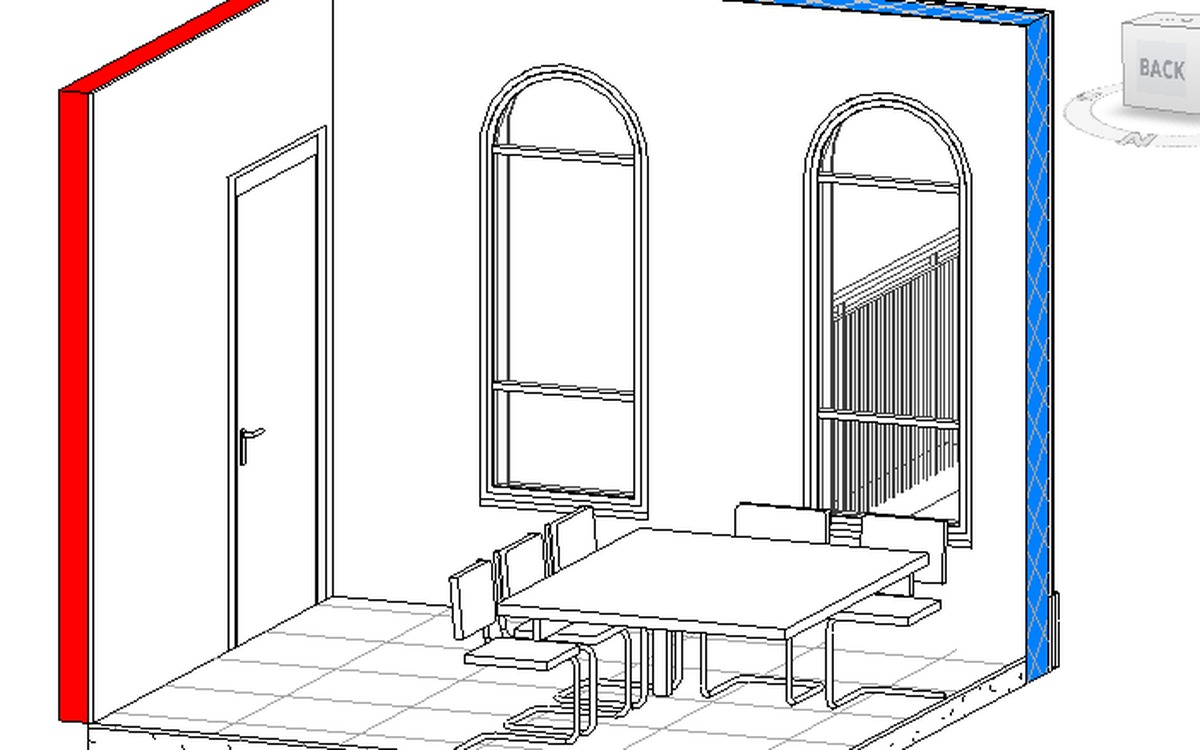
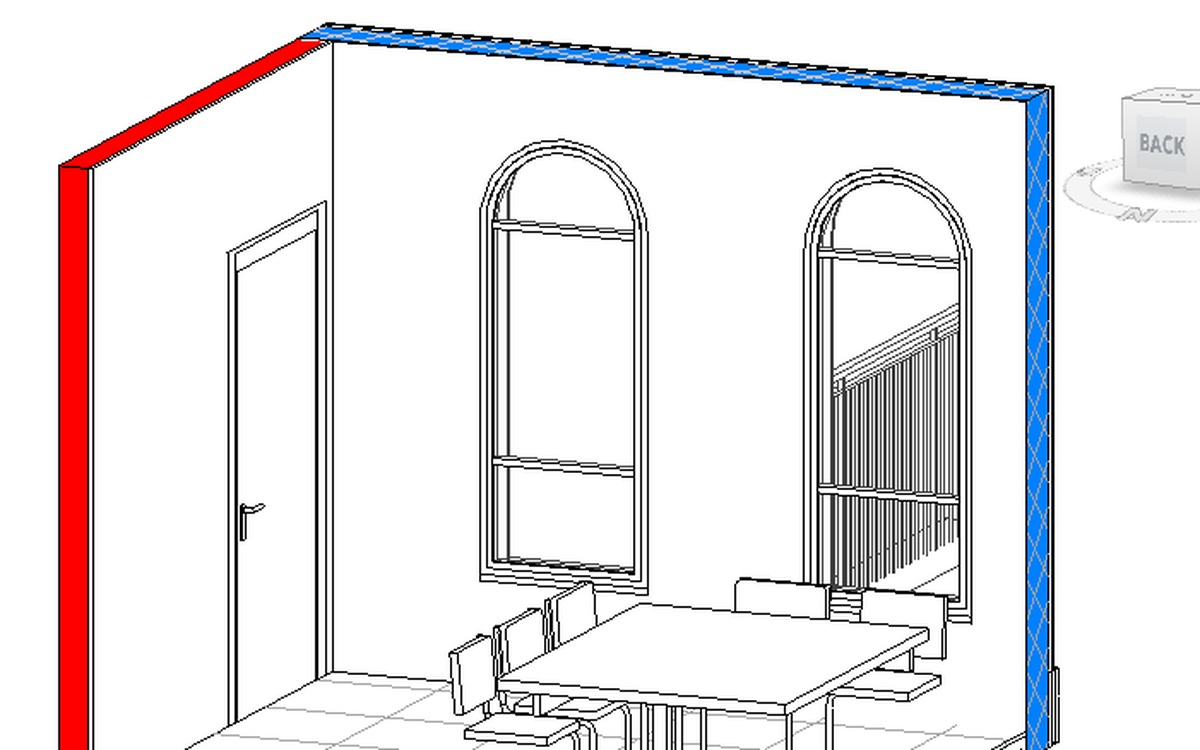
DM: crop higher, bubble to upper-left

diff --git a/all-mockup.html b/all-mockup.html
@@ -9,7 +9,7 @@
 <link rel="preconnect" href="https://fonts.gstatic.com" crossorigin>
 <link href="https://fonts.googleapis.com/css2?family=Rubik:wght@500;600;700;800&family=Heebo:wght@400;500;600;700;800&display=swap" rel="stylesheet">
 <link href="bimsuite-mockup.css?v=37" rel="stylesheet">
-<link href="suite-pipe.css?v=3" rel="stylesheet">
+<link href="suite-pipe.css?v=4" rel="stylesheet">
 <style>
       @keyframes badge-spin {
         from { transform: rotate(0deg); }
@@ -491,7 +491,7 @@ body.oyl-over header[role="banner"] .oymer-submenu a{color:#334155!important}
 @media (max-width:560px){.alllab .oyl-grid{grid-template-columns:1fr}}
 
 </style>
-<link href="oymer-pairs.css?v=8" rel="stylesheet">
+<link href="oymer-pairs.css?v=9" rel="stylesheet">
 </head>
 <body>
 <div class="min-h-screen" dir="rtl">
@@ -995,7 +995,7 @@ body.oyl-over header[role="banner"] .oymer-submenu a{color:#334155!important}
         <article class="oyl-panel">
           <div class="oyl-media">
             <span class="oyl-id oyl-mono">VIEW_02</span>
-            <video src="media/lab/kitchen-lab.mp4?v=3" poster="media/lab/kitchen-lab-poster.jpg" autoplay muted loop playsinline></video>
+            <video src="media/lab/kitchen-lab.mp4?v=4" poster="media/lab/kitchen-lab-poster.jpg" autoplay muted loop playsinline></video>
           </div>
           <div class="oyl-body">
             <span class="oyl-kick oyl-mono">IN THE VIEWER</span>
@@ -1146,7 +1146,7 @@ body.oyl-over header[role="banner"] .oymer-submenu a{color:#334155!important}
         <article class="oyl-panel">
           <div class="oyl-media">
             <span class="oyl-id oyl-mono">LAB_01</span>
-            <video src="media/lab/kitchen-lab.mp4?v=3" poster="media/lab/kitchen-lab-poster.jpg" autoplay muted loop playsinline></video>
+            <video src="media/lab/kitchen-lab.mp4?v=4" poster="media/lab/kitchen-lab-poster.jpg" autoplay muted loop playsinline></video>
           </div>
           <div class="oyl-body">
             <span class="oyl-kick oyl-mono">IN THE LAB</span>
@@ -1236,7 +1236,7 @@ body.oyl-over header[role="banner"] .oymer-submenu a{color:#334155!important}
         <article class="oyl-panel">
           <div class="oyl-media">
             <span class="oyl-id oyl-mono">LAB_03</span>
-            <video src="media/lab/barrier-lab.mp4?v=3" poster="media/lab/barrier-lab-poster.jpg" autoplay muted loop playsinline></video>
+            <video src="media/lab/barrier-lab.mp4?v=4" poster="media/lab/barrier-lab-poster.jpg" autoplay muted loop playsinline></video>
           </div>
           <div class="oyl-body">
             <span class="oyl-kick oyl-mono">IN THE LAB</span>
@@ -2028,7 +2028,7 @@ body.oyl-over header[role="banner"] .oymer-submenu a{color:#334155!important}
         <article class="oyl-panel">
           <div class="oyl-media">
             <span class="oyl-id oyl-mono">LAB_01</span>
-            <video src="media/lab/kitchen-lab.mp4?v=3" poster="media/lab/kitchen-lab-poster.jpg?v=3" autoplay muted loop playsinline></video>
+            <video src="media/lab/kitchen-lab.mp4?v=4" poster="media/lab/kitchen-lab-poster.jpg?v=4" autoplay muted loop playsinline></video>
           </div>
           <div class="oyl-body">
             <span class="oyl-kick oyl-mono">IN THE LAB</span>
@@ -2120,7 +2120,7 @@ body.oyl-over header[role="banner"] .oymer-submenu a{color:#334155!important}
         <article class="oyl-panel">
           <div class="oyl-media">
             <span class="oyl-id oyl-mono">LAB_03</span>
-            <video src="media/lab/barrier-lab.mp4?v=3" poster="media/lab/barrier-lab-poster.jpg?v=3" autoplay muted loop playsinline></video>
+            <video src="media/lab/barrier-lab.mp4?v=4" poster="media/lab/barrier-lab-poster.jpg?v=4" autoplay muted loop playsinline></video>
           </div>
           <div class="oyl-body">
             <span class="oyl-kick oyl-mono">IN THE LAB</span>

diff --git a/familycreator-mockup.html b/familycreator-mockup.html
@@ -9,8 +9,8 @@
 <link rel="preconnect" href="https://fonts.gstatic.com" crossorigin>
 <link href="https://fonts.googleapis.com/css2?family=Rubik:wght@500;600;700;800&family=Heebo:wght@400;500;600;700;800&display=swap" rel="stylesheet">
 <link href="bimsuite-mockup.css?v=37" rel="stylesheet">
-<link href="suite-pipe.css?v=3" rel="stylesheet">
-<link href="oymer-pairs.css?v=8" rel="stylesheet">
+<link href="suite-pipe.css?v=4" rel="stylesheet">
+<link href="oymer-pairs.css?v=9" rel="stylesheet">
 <script>if(location.search.indexOf("from=suite")>-1)document.documentElement.className+=" fromsuite";</script>
 </head>
 <body>
@@ -103,7 +103,7 @@
         <article class="oyl-panel">
           <div class="oyl-media">
             <span class="oyl-id oyl-mono">LAB_01</span>
-            <video src="media/lab/kitchen-lab.mp4?v=3" poster="media/lab/kitchen-lab-poster.jpg" autoplay muted loop playsinline></video>
+            <video src="media/lab/kitchen-lab.mp4?v=4" poster="media/lab/kitchen-lab-poster.jpg" autoplay muted loop playsinline></video>
           </div>
           <div class="oyl-body">
             <span class="oyl-kick oyl-mono">IN THE LAB</span>
@@ -193,7 +193,7 @@
         <article class="oyl-panel">
           <div class="oyl-media">
             <span class="oyl-id oyl-mono">LAB_03</span>
-            <video src="media/lab/barrier-lab.mp4?v=3" poster="media/lab/barrier-lab-poster.jpg" autoplay muted loop playsinline></video>
+            <video src="media/lab/barrier-lab.mp4?v=4" poster="media/lab/barrier-lab-poster.jpg" autoplay muted loop playsinline></video>
           </div>
           <div class="oyl-body">
             <span class="oyl-kick oyl-mono">IN THE LAB</span>

diff --git a/decisionmaker-mockup.html b/decisionmaker-mockup.html
@@ -9,8 +9,8 @@
 <link rel="preconnect" href="https://fonts.gstatic.com" crossorigin>
 <link href="https://fonts.googleapis.com/css2?family=Rubik:wght@500;600;700;800&family=Heebo:wght@400;500;600;700;800&display=swap" rel="stylesheet">
 <link href="bimsuite-mockup.css?v=37" rel="stylesheet">
-<link href="suite-pipe.css?v=3" rel="stylesheet">
-<link href="oymer-pairs.css?v=8" rel="stylesheet">
+<link href="suite-pipe.css?v=4" rel="stylesheet">
+<link href="oymer-pairs.css?v=9" rel="stylesheet">
 <script>if(location.search.indexOf("from=suite")>-1)document.documentElement.className+=" fromsuite";</script>
 </head>
 <body>
@@ -73,7 +73,7 @@
         <article class="oyl-panel">
           <div class="oyl-media">
             <span class="oyl-id oyl-mono">REVIT_01</span>
-            <img src="media/dm-revit-before.jpg?v=3" alt="">
+            <img src="media/dm-revit-before.jpg?v=4" alt="">
           </div>
           <div class="oyl-body">
             <span class="oyl-kick oyl-mono">IN REVIT</span>
@@ -126,7 +126,7 @@
         <article class="oyl-panel">
           <div class="oyl-media">
             <span class="oyl-id oyl-mono">REVIT_02</span>
-            <img src="media/dm-revit-after.jpg?v=3" alt="">
+            <img src="media/dm-revit-after.jpg?v=4" alt="">
             <span class="dm-approval oyl-mono" dir="ltr">
               <b>Object</b><i>Window 80/200 &middot; id 7797946</i>
               <b>Moved</b><i>20 cm on X axis</i>

diff --git a/oymer-pairs.css b/oymer-pairs.css
@@ -92,7 +92,7 @@
    and translucent on purpose, so the drawing underneath still reads through it. the
    blur is what buys legibility over a busy screenshot without going opaque. */
 .oylp .dm-approval{
-  position:absolute;left:6%;right:6%;top:14px;z-index:4;
+  position:absolute;left:4%;right:auto;width:52%;top:12px;z-index:4;
   display:grid;grid-template-columns:auto 1fr;gap:1px 15px;align-items:baseline;
   font-size:.9rem;line-height:1.42;letter-spacing:.01em;
   background:linear-gradient(160deg, rgba(255,255,255,.80) 0%,
@@ -119,7 +119,7 @@
 /* the tail matches the bubble's LOWER edge, where it actually joins - the bubble is a
    gradient, so a flat hue here would show as a bright notch */
 .oylp .dm-approval::after{
-  content:"";position:absolute;bottom:-9px;left:31%;width:15px;height:15px;
+  content:"";position:absolute;bottom:-9px;left:auto;right:16%;width:15px;height:15px;
   background:rgba(var(--c,79,125,255),.42);
   -webkit-backdrop-filter:blur(3px) saturate(1.15);
           backdrop-filter:blur(3px) saturate(1.15);
@@ -128,7 +128,7 @@
   transform:rotate(45deg);border-bottom-right-radius:3px;
 }
 @media (max-width:900px){
-  .oylp .dm-approval{left:4%;right:4%;font-size:.78rem;padding:11px 13px;gap:4px 11px}
+  .oylp .dm-approval{left:3%;right:auto;width:70%;font-size:.72rem;padding:11px 13px;gap:4px 11px}
 }
 
 /* this label sits BETWEEN the panels, on the page's light ground - the cyan glow it

diff --git a/viewer-mockup.html b/viewer-mockup.html
@@ -9,8 +9,8 @@
 <link rel="preconnect" href="https://fonts.gstatic.com" crossorigin>
 <link href="https://fonts.googleapis.com/css2?family=Rubik:wght@500;600;700;800&family=Heebo:wght@400;500;600;700;800&display=swap" rel="stylesheet">
 <link href="bimsuite-mockup.css?v=37" rel="stylesheet">
-<link href="suite-pipe.css?v=3" rel="stylesheet">
-<link href="oymer-pairs.css?v=8" rel="stylesheet">
+<link href="suite-pipe.css?v=4" rel="stylesheet">
+<link href="oymer-pairs.css?v=9" rel="stylesheet">
 </head>
 <body>
 <div class="min-h-screen" dir="rtl">
@@ -147,7 +147,7 @@
         <article class="oyl-panel">
           <div class="oyl-media">
             <span class="oyl-id oyl-mono">VIEW_02</span>
-            <video src="media/lab/kitchen-lab.mp4?v=3" poster="media/lab/kitchen-lab-poster.jpg" autoplay muted loop playsinline></video>
+            <video src="media/lab/kitchen-lab.mp4?v=4" poster="media/lab/kitchen-lab-poster.jpg" autoplay muted loop playsinline></video>
           </div>
           <div class="oyl-body">
             <span class="oyl-kick oyl-mono">IN THE VIEWER</span>

diff --git a/typestudio-mockup.html b/typestudio-mockup.html
@@ -9,8 +9,8 @@
 <link rel="preconnect" href="https://fonts.gstatic.com" crossorigin>
 <link href="https://fonts.googleapis.com/css2?family=Rubik:wght@500;600;700;800&family=Heebo:wght@400;500;600;700;800&display=swap" rel="stylesheet">
 <link href="bimsuite-mockup.css?v=37" rel="stylesheet">
-<link href="suite-pipe.css?v=3" rel="stylesheet">
-<link href="oymer-pairs.css?v=8" rel="stylesheet">
+<link href="suite-pipe.css?v=4" rel="stylesheet">
+<link href="oymer-pairs.css?v=9" rel="stylesheet">
 </head>
 <body>
 <div class="min-h-screen" dir="rtl">
